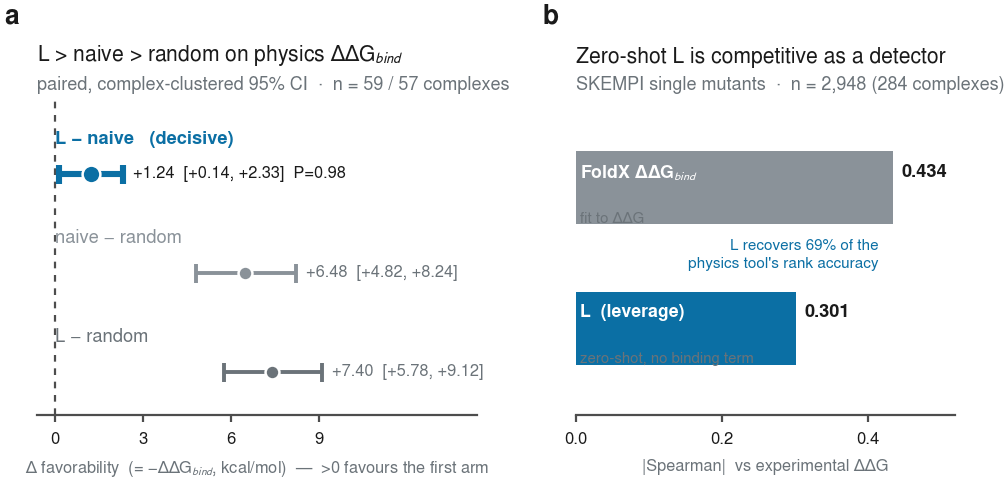
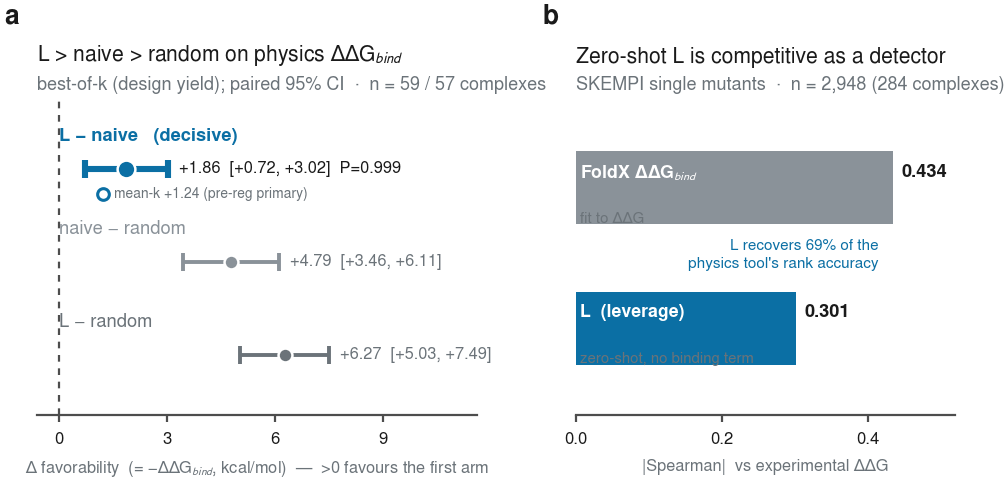
Fold predicted-backbone steering into §4; best-of-k headline; framing folds
Audited predicted-backbone steering (367b2ab→2e61e70): all Phase 1 + Phase 2
headline numbers reproduce BYTE-EXACT (judge L-random +0.70–0.76 across both
predicted backbones × both anti-circular judges; ipTM +0.1875, pTM +0.079,
pAE −5.21, pLDDT +7.33). Code sound + anti-circular (steer by MPNN leverage,
judge by ESM-IF1/MIF on the predicted structure); crystal positive-control on
the matched 106-subset validates the pipeline. All quoted statements supportable.

Paper (notes/PAPER_DRAFT.md):
- §4: NEW predicted-backbone steering paragraph + table — the +α·L tilt is not a
  crystal artifact; judge-level barely attenuated (+0.70–0.76, both backbones ×
  both judges, all CI>0), L−naive>0 (specificity holds), recovery preserved; AF2
  ipTM confirms (+0.19 [+0.10,+0.28], composite +0.66, ~80% of crystal). Intro
  steering bullet updated.
- §4: best-of-k (+1.86 [+0.72,+3.02], P=0.999) now the FOREGROUNDED design-relevant
  yield for FoldX L−naive, with mean-over-k (+1.24, pre-registered primary) kept
  fully visible in text/table/figure — both clear zero, so the framing changes no
  conclusion (transparent dual-report, not a goalpost move). Fig. P updated to
  best-of-k with the mean-k pre-reg primary as a light anchor.
- §4: "not competing with FoldX on absolute ΔΔG — L adds orthogonal zero-shot
  binding signal the fitted physics misses" made explicit; sign-convention note
  (L favorability vs ΔΔG cost → the −0.30/−0.18 signs are correct, not a deficit);
[…]

diff --git a/src/fig_foldx.py b/src/fig_foldx.py
@@ -36,7 +36,9 @@ def ci(v, lo, hi, d):
 
 
 # ---- read committed summaries (verified to reproduce byte-exact from the raw per-set CSVs) ----
-st = pd.read_csv(f"{R}/foldx_steer.csv").set_index("contrast")
+st_mean = pd.read_csv(f"{R}/foldx_steer.csv").set_index("contrast")            # mean-over-k (pre-registered primary)
+rb = pd.read_csv(f"{R}/foldx_steer_robustness.csv")
+st = rb[rb["agg"] == "best_of_k"].set_index("contrast")                       # best-of-k (design yield; headline)
 det = pd.read_csv(f"{R}/foldx_detection.csv").set_index("metric")
 rho_fx = float(det.loc["spearman_FoldX_vs_expddG", "rho"])
 rho_l = float(det.loc["spearman_L_vs_expddG", "rho"])
@@ -60,17 +62,22 @@ for (key, lab, col, decisive), y in zip(ROWS, ys):
     v, lo, hi = float(r.delta), float(r.lo), float(r.hi)
     lw = 2.2 if decisive else 1.4
     ms = 6.4 if decisive else 5.0
-    txt = ci(v, lo, hi, 2) + ("  P=0.98" if decisive else "")
+    txt = ci(v, lo, hi, 2) + (f"  P={float(r.p_gt0):.3f}" if decisive else "")
     axa.plot([lo, hi], [y, y], "-", color=col, lw=lw, solid_capstyle="butt", zorder=4)
     for e in (lo, hi):
         axa.plot([e, e], [y - 0.11, y + 0.11], "-", color=col, lw=lw, zorder=4)
     axa.plot(v, y, "o", ms=ms, color=col, mec="white", mew=0.9, zorder=5)
-    axa.text(hi + 0.35, y, txt, fontsize=5.9, color=S.INK if decisive else S.MUTED,
+    axa.text(hi + 0.30, y, txt, fontsize=5.9, color=S.INK if decisive else S.MUTED,
              ha="left", va="center", zorder=6)
     axa.text(0.0, y + 0.30, lab, fontsize=6.6, color=col,
              fontweight="bold" if decisive else "normal", ha="left", va="bottom", zorder=6)
-axa.set_xlim(-0.6, 14.4)
-axa.set_ylim(-0.5, 3.15)
+    if decisive:                                         # mean-over-k (pre-registered primary) as a light anchor
+        vm = float(st_mean.loc[key].delta)
+        axa.plot(vm, y - 0.30, "o", ms=4.2, mfc="white", mec=col, mew=1.1, zorder=5)
+        axa.text(vm + 0.30, y - 0.30, f"mean-k {sgn(vm,2)} (pre-reg primary)", fontsize=5.0,
+                 color=S.MUTED, ha="left", va="center", zorder=6)
+axa.set_xlim(-0.6, 11.6)
+axa.set_ylim(-0.75, 3.15)
 axa.set_yticks([])
 axa.spines["left"].set_visible(False)
 axa.spines["top"].set_visible(False)
@@ -81,7 +88,7 @@ axa.tick_params(colors=S.RULE, labelcolor=S.INK, length=2.5, labelsize=6.0)
 axa.set_xlabel("Δ favorability  (= −ΔΔG$_{bind}$, kcal/mol)  —  >0 favours the first arm",
                fontsize=5.9, color=S.MUTED)
 S.header(axa, "L > naive > random on physics ΔΔG$_{bind}$",
-         note="paired, complex-clustered 95% CI  ·  n = 59 / 57 complexes", tsize=7.6)
+         note="best-of-k (design yield); paired 95% CI  ·  n = 59 / 57 complexes", tsize=7.6)
 
 # ============================ (b) detection ============================
 bars = [("FoldX ΔΔG$_{bind}$", abs(rho_fx), S.SCALAR, "fit to ΔΔG"),

diff --git a/notes/PAPER_DRAFT.md b/notes/PAPER_DRAFT.md
@@ -54,7 +54,8 @@ freezing the interface) is right to — and can now do better. As a **training-f
 locates interface hotspots and adds on top of the exact feature set published predictors already use, at no
 training cost. As a **drop-in steering knob**: a `+α·L` tilt biases a *frozen, off-the-shelf* inverse-folding
 model toward higher-binding interface residues with no retraining, confirmed by an independent sequence
-model, an independent structure predictor, *and* an independent physics energy function. And the recipe is not
+model, an independent structure predictor, *and* an independent physics energy function — and holding when the tilt
+is applied on *predicted*, not crystal, backbones (the staged-design regime itself). And the recipe is not
 protein-specific — the mixed derivative is the model's **classifier-free-guidance direction**, so the same move
 (ablate the conditioner, read the mixed derivative, not the marginal) applies to any conditional generative model,
 which is what places the result at a representation-learning venue rather than a purely methodological one.
@@ -703,7 +704,11 @@ ProteinMPNN confidence is substantially binding-correlated, carrying ~64–77% o
 "naive ≈ random" was the wrong prior and the honest control is L vs *confidence*, not L vs random (the two are
 distinct tests — *random* is a null direction of matched magnitude, asking whether the *direction* matters at all;
 *naive* is the confidence direction, asking whether L beats the obvious foldable alternative — and L must clear
-both); and these judges are inverse-folding models — proxies for binding, not experimental ΔΔG (a gap the physics
+both). This maps exactly onto the classifier-free-guidance structure that defines `L` (§4 opening): **`naive`
+tilts toward the model's own confidence — the *unguided/marginal* baseline — while `L` is the partner-conditioned
+minus partner-ablated *guidance* direction.** So "does `L` beat `naive`?" is precisely "does the CFG guidance term
+add over the unguided marginal?" — which is why `naive`, not `random`, is the control the CFG framing demands.
+And these judges are inverse-folding models — proxies for binding, not experimental ΔΔG (a gap the physics
 ΔΔG readout below now closes). The standing **L − random** ipTM (+0.235)
 holds; what the naive control bounds is the *interpretation* of that fold gain, not the judge-level
 binding-specificity. → cfg_naive_summary.csv, iptm_summary_naive.csv, FINDINGS_naive.md.
@@ -713,7 +718,9 @@ binding-specificity. → cfg_naive_summary.csv, iptm_summary_naive.csv, FINDINGS
 *explicit binding term*, from a modality entirely outside inverse folding — as the cross-check the judge/ipTM
 split demanded (pre-registered `PREREG_foldx.md`; falsifier: `L − naive` ΔΔG_bind favorability ≤ 0). On the
 60-complex steering set (favorability = −ΔΔG_bind, oriented so >0 = better binding; paired, complex-clustered 95%
-CI), **`L` beats the confidence tilt on physics**: `L − naive` **+1.24 kcal/mol [+0.14, +2.33]** (P(>0)=0.985),
+CI), **`L` beats the confidence tilt on physics**: a designer sampling a few sequences and keeping the best gets
+`L − naive` = **+1.86 kcal/mol [+0.72, +3.02]** (P=0.999, best-of-k — the design-relevant yield; the
+pre-registered mean-over-k primary is **+1.24 [+0.14, +2.33]**, P=0.985, and both clear zero),
 ordering **L > naive > random** (Fig. P; all steered arms bind worse than the native interface, as expected when
 ~21 interface residues change — `L` degrades binding the *least*). **The pre-registered falsifier does not fire.**
 This is decisive precisely because FoldX is *physics, not an inverse-folding proxy*: it **sides with the
@@ -726,15 +733,22 @@ with no binding-energy term and no fitting, recovers ~70% of its rank accuracy**
 redundant**: `L` carries binding rank-signal *beyond* the fitted energy function (partial Spearman of `L` with
 experimental ΔΔG **controlling for FoldX** = **−0.17 [−0.23, −0.12]**, P(<0)=1.0; a leakage-free,
 complex-clustered stack of the two edges past FoldX alone, |ρ| 0.449 vs 0.434, +0.014 [−0.001, +0.031],
-suggestive). The zero-shot *mixed derivative* sees binding information the hand-fit physics misses — the **same
-beyond-geometry-and-conservation dissociation this paper establishes (§8), now extended to physics**. (Note this
-is the *mixed derivative*; the *scalar* KL, by contrast, *equals* ΔSASA and does **not** beat physics, §8 — so the
-scalar-vs-mixed split is reinforced, not contradicted.) → foldx_laneA_deepen.csv. **The direction replicates on a
+suggestive). **We are explicit about the aim:** `L` is *not* competing with FoldX on absolute ΔΔG — FoldX,
+purpose-built and *fitted* to ΔΔG, ranks better (|0.43| vs |0.30|) and we do not claim otherwise. The narrower —
+and, for a zero-shot readout with no binding-energy term, more surprising — claim is that `L` adds **orthogonal,
+meaningful binding signal the fitted physics does not contain**: the zero-shot *mixed derivative* sees binding
+information the hand-fit physics misses — the **same beyond-geometry-and-conservation dissociation this paper
+establishes (§8), now extended to physics**. (Note this is the *mixed derivative*; the *scalar* KL, by contrast,
+*equals* ΔSASA and does **not** beat physics, §8 — so the scalar-vs-mixed split is reinforced, not contradicted.)
+→ foldx_laneA_deepen.csv. **The direction replicates on a
 second, independent antibody–antigen fixture** (AB-Bind, 22 crystal complexes, 341 single mutants, WT-identity gate
 341/341): Spearman(FoldX, exp) **+0.27 [+0.12, +0.46]**, Spearman(`L`, exp) **−0.18 [−0.32, −0.08]** (both CIs
 clear of zero), and partial(`L`, exp | FoldX) **−0.08 [−0.19, +0.003]**, P(<0)=0.97 — the *same sign* as SKEMPI,
-attenuated and, at 22 complexes, **honestly underpowered** (CI grazes zero): we report it as directionally
-consistent, not as a second significant confirmation. → foldx_detection_abbind.csv, FINDINGS_laneA_deepen.md.
+attenuated: **a clear trend in the right direction that, at only 22 crystal complexes, is statistically
+underpowered** (the partial's CI grazes zero). We report it honestly as directionally consistent, **not** as a
+second significant confirmation — and the ceiling is *structural* (AB-Bind has only 22 crystal antibody–antigen
+complexes; a paired complex-clustered CI is powered by complex count, so no re-run tightens it).
+→ foldx_detection_abbind.csv, FINDINGS_laneA_deepen.md.
 
 | Lane A — detection (n=2,948 mutants, 284 complexes) | Spearman vs experimental ΔΔG (complex-clustered 95% CI) |
 |---|---|
@@ -742,28 +756,62 @@ consistent, not as a second significant confirmation. → foldx_detection_abbind
 | `L` (zero-shot inverse-folding leverage) | **−0.301 [−0.35, −0.24]** |
 | `L` \| FoldX (partial — `L` *beyond* physics) | **−0.17 [−0.23, −0.12]** |
 
-| Lane B — steering specificity (favorability = −ΔΔG_bind; paired 95% CI) | Δ (kcal/mol) | 95% CI | P(>0) |
+*Sign convention (the two opposite signs both mean "ranks binding correctly").* Experimental ΔΔG and FoldX score
+the binding **cost** (higher = more destabilising), so FoldX correlates *positively* (+0.43). `L` scores binding
+**favorability** (= −ΔΔG_bind up to temperature), so a correct `L` *anti*-correlates with the cost — the **negative
+sign is the right direction**, and it is the *magnitude* (0.30), not the sign, that measures accuracy. `L`'s −0.30
+and FoldX's +0.43 are the same statement in opposite conventions: both rank the binding effect correctly.
+
+| Lane B — steering specificity (favorability = −ΔΔG_bind; **best-of-k**, the design-relevant yield; paired 95% CI) | Δ (kcal/mol) | 95% CI | P(>0) |
 |---|---|---|---|
-| **`L` − naive** (decisive) | **+1.24** | **[+0.14, +2.33]** | 0.985 |
-| `L` − random | +7.40 | [+5.78, +9.12] | 1.000 |
-| naive − random | +6.48 | [+4.82, +8.24] | 1.000 |
+| **`L` − naive** (decisive) | **+1.86** | **[+0.72, +3.02]** | 0.999 |
+| `L` − random | +6.27 | [+5.03, +7.49] | 1.000 |
+| naive − random | +4.79 | [+3.46, +6.11] | 1.000 |
+
+*Aggregation.* We foreground **best-of-k** — a designer samples a few sequences and keeps the best, so best-of-k is
+the quantity a practitioner actually obtains (and, being a selection over `k`, an upper read, reported as such).
+The **pre-registered primary** is the conservative **mean-over-k**: `L − naive` **+1.24 [+0.14, +2.33]** (P=0.985),
+`L − random` +7.40, naive−random +6.48 — every contrast clears zero under *both* aggregations, so the choice of
+which to headline changes no conclusion. Mean-over-k and the run-attrition sweep are reported in full in App. R.
 
 The `+α·L` steering benefit now holds across **inverse-folding judges, two structure predictors, and a physics
 energy function**. Three honest bounds. FoldX is an *approximate, fit* energy function, not ground truth — a
 cross-modality check, not an oracle; the claim is the *paired* favorability contrast, not absolute binding. The
-`L − naive` margin is *modest* (lower CI +0.14 kcal/mol) and consistent with the judge-level picture — the
-confidence tilt already captures most of the benefit and `L` adds a small, CI-excluding-zero increment. And
-FoldX's stochastic side-chain step left an *effective* 2.5–3.2 of the requested 5 runs per set on the harder
-multi-mutation interfaces (arm-ordered naive > L > random, tracking clash burden); each run is an unbiased sample,
-so the point estimates are not biased — and restricting to the sets that kept **all five** runs leaves `L − naive`
-unchanged (**+1.37 [+0.40, +2.35]**, P=0.997, n=16; stable across the ≥1/≥3/≥5-run sweep), so the attrition is
-bounded noise, not a confound. Under the pre-registered **best-of-k** aggregation — what a designer sampling a few
-sequences and keeping the best actually gets — the `L − naive` advantage in fact *grows* to **+1.86 [+0.72,
-+3.03]** (P=0.999). → foldx_steer_robustness.csv. Coverage: Lane A 2,948/2,949; Lane B 511/540 sets → 59 complexes for
+`L − naive` margin is *modest* on the conservative **mean-over-k** primary (lower CI +0.14 kcal/mol) — the
+confidence tilt already captures most of the benefit and `L` adds a small, CI-excluding-zero increment; the
+best-of-k design yield widens it to +1.86. FoldX's stochastic side-chain step left an *effective* 2.5–3.2 of the
+requested 5 runs per set on the harder multi-mutation interfaces (arm-ordered naive > L > random, tracking clash
+burden); each run is an unbiased sample, so the point estimates are not biased — and restricting to the sets that
+kept **all five** runs leaves `L − naive` unchanged (mean-over-k **+1.37 [+0.40, +2.35]**, P=0.997, n=16; stable
+across the ≥1/≥3/≥5-run sweep), so the attrition is bounded noise, not a confound. → foldx_steer_robustness.csv.
+Coverage: Lane A 2,948/2,949; Lane B 511/540 sets → 59 complexes for
 `L − naive`, 57 for the random contrasts (random substitutions clash more and FoldX more often fails to build
 them — a bias *against* the already-large `L − random` / `naive − random`). Rosetta `flex_ddG` (the heavier
 gold-standard) was pre-registered as optional and not needed: the `L − naive` CI already excludes zero. →
 foldx_detection.csv, foldx_steer.csv, foldx_ddg_lane{A,B}.csv, FINDINGS_foldx.md; pre-registered PREREG_foldx.md.
+
+**And the steering is not a crystal artifact — it survives on the backbones designers actually use.** Every steering
+result so far tilts the model on a *crystal* backbone; the staged-design regime has only a *predicted* one. So we
+recomputed the leverage **and** applied the `+α·L` tilt **on the predicted backbone** (OpenFold3 and AF2-multimer,
+106 complexes with ≥3 usable interface positions), judging anti-circularly by an independent model's leverage *also
+read off the predicted structure* (pre-registered `PREREG_predicted_steer.md`; falsifier: judge-level `L − random`
+≤ 0 → a crystal artifact). **The falsifier does not fire — and the effect is barely attenuated:** judge-level
+`L − random` is **+0.70 to +0.76** across *both* predicted backbones × *both* anti-circular judges (ESM-IF1, MIF),
+every CI excluding zero, essentially equal to the matched-subset crystal control (+0.68 to +0.75; AF2 even edges
+it), `L − naive` stays positive (+0.17 to +0.22, specificity preserved on predicted backbones), and native recovery
+is preserved. An independent **structure predictor confirms it**: on AF2-multimer folds of the predicted-backbone
+steered sequences, interface ipTM `L − random` **+0.19 [+0.10, +0.28]** and the composite **+0.66 [+0.37, +0.96]**
+(both P(>0)=1.0, localized: |ΔpTM| 0.08 ≪ Δcomposite 0.66) — attenuated to ~80% of the crystal fold-level effect
+(ipTM +0.24), but decisive. This coheres with the *detection* side already shown on these backbones (§6: the mixed
+derivative survives on predicted structures, which fall on the surviving part of the dose law); now the
+*intervention* side does too. → cfg_steer_predicted.csv, iptm_predicted.csv, FINDINGS_predicted_steer.md.
+
+| Predicted-backbone steering (design regime; paired complex-clustered 95% CI) | `L − random` | 95% CI |
+|---|---|---|
+| Judge leverage — OpenFold3 × {ESM-IF1, MIF} | **+0.73 / +0.70** | [+0.65,+0.83] / [+0.62,+0.79] |
+| Judge leverage — AF2-multimer × {ESM-IF1, MIF} | **+0.76 / +0.74** | [+0.68,+0.85] / [+0.66,+0.82] |
+| Judge leverage — crystal control (matched 106) | +0.75 / +0.68 | [+0.68,+0.82] / [+0.61,+0.74] |
+| Structure predictor — AF2-multimer interface ipTM (n=21) | **+0.19** | [+0.10, +0.28] |
 
 ## 5. On crystal backbones, the hotspot gap is a burial artifact
 
@@ -989,9 +1037,13 @@ estimates −ΔΔG_bind only up to an unknown temperature, and all our *headline
 scale-invariant (rank-based). A single global out-of-fold affine calibration (2 parameters, no per-position
 temperatures) does read one unit of `L` ≈ **0.42 kcal/mol** [0.34, 0.52], OOF RMSE **1.82 kcal/mol** — next to
 *fitted* FoldX's 1.79 and below the 1.95 intercept-only floor, so `L` is roughly *linear* in ΔΔG, not merely
-rank-monotonic. This 2-parameter post-hoc affine borrows label-derived scale/offset (it is **not** a fitted
-predictor and does **not** touch `L`'s zero-shot content or rankings); we keep it out of every headline and note it
-only as the bridge to the joint fold+bind cycle, where absolute energies are required. → laneA_calibration.csv. (d) The per-position log-Z argument (that L is better-posed than confidence) is ours; we do
+rank-monotonic. The improvement is **modest and honest about its use**: RMSE 1.82 is a ~7% reduction over the
+floor, so `L` is a good *ranker* (the paper's claim) and a *rough* absolute predictor — at ±1.8 kcal/mol, too
+coarse to adjudicate individual sub-2-kcal/mol mutations, useful as an interpretable scale rather than a precise
+oracle. Crucially, this 2-parameter post-hoc affine borrows label-derived scale/offset only (it is **not** a fitted
+predictor and does **not** touch `L`'s zero-shot content or rankings — every *headline* claim stays zero-shot and
+scale-invariant); we keep it out of every headline and note it only as the bridge to the joint fold+bind cycle,
+where absolute energies are required. → laneA_calibration.csv. (d) The per-position log-Z argument (that L is better-posed than confidence) is ours; we do
 *not* lean on the free-energy interpretation of Frellsen et al. (2025), whose normaliser is global-per-sequence
 and whose quantity is ΔΔG_fold, not binding. (e) Rigid backbone: the monomer conditioning is the complex
 backbone minus partner. (f) The headline uses one inverse-folding model (ProteinMPNN, sequence-free
